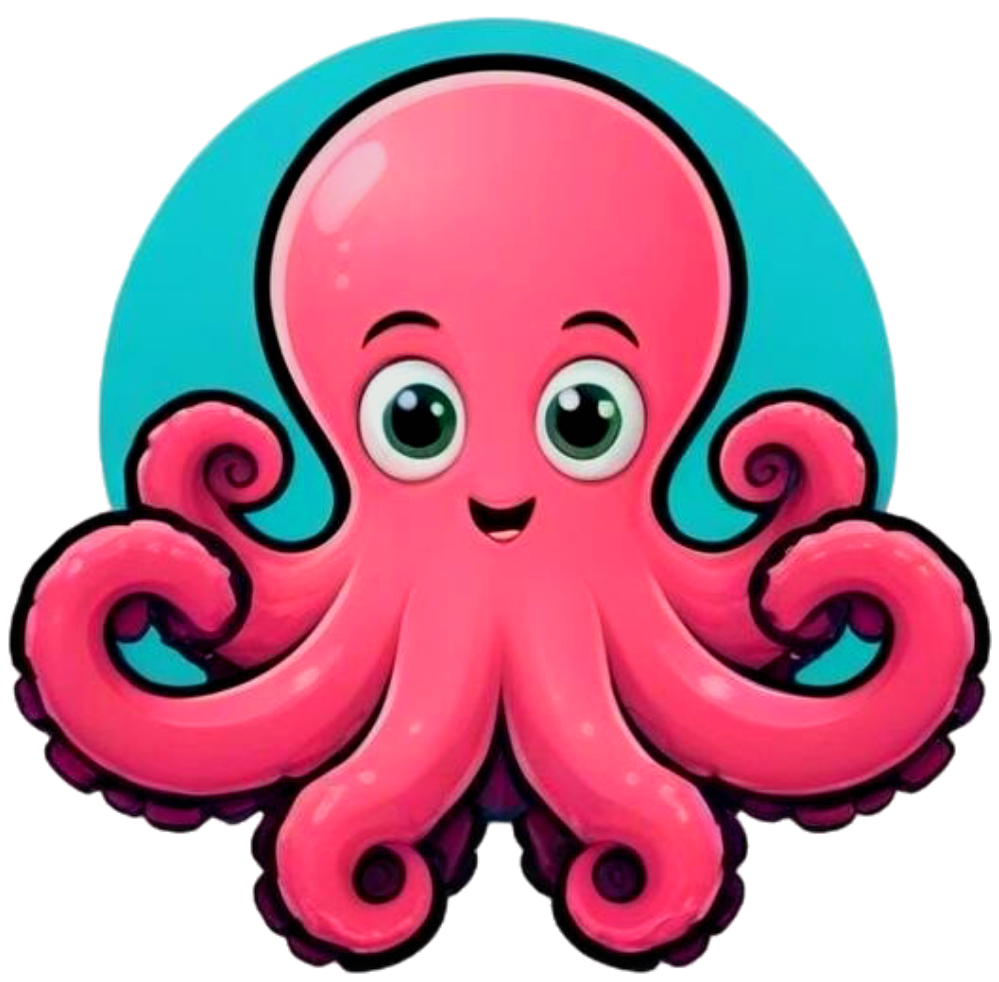
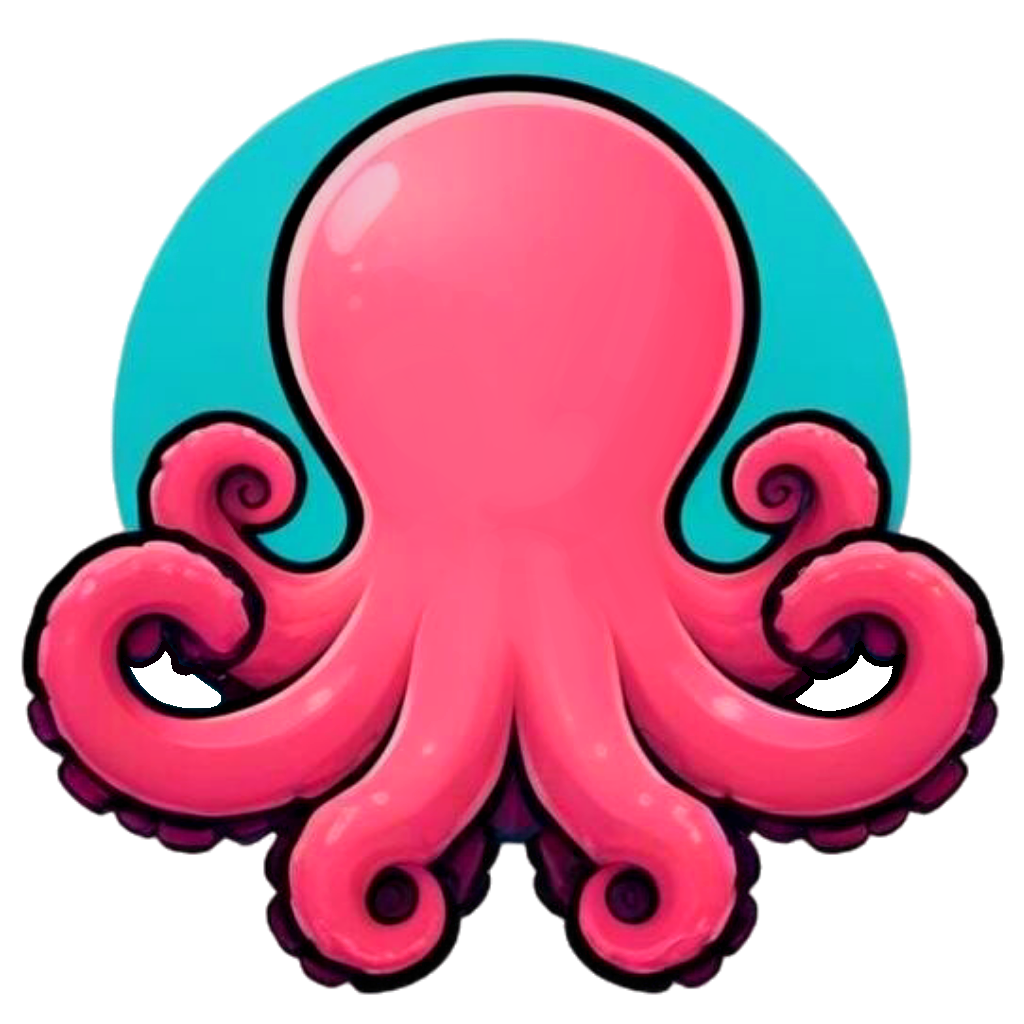
add styles and character state

Changed region(s): [[0.0, 0.0, 0.993, 1.0], [0.3413, 0.5804, 0.3724, 0.611], [0.3103, 0.611, 0.3413, 0.6415]]

diff --git a/my-mini-projects/src/components/LogIn/PasswordChecker.tsx b/my-mini-projects/src/components/LogIn/PasswordChecker.tsx
@@ -1,10 +1,11 @@
-import React, { useState } from "react";
+import React, { useEffect, useState } from "react";
 import "./PasswordChecker.css";
 
 const PasswordChecker: React.FC = () => {
   const [password, setPassword] = useState("");
   const [confirmPassword, setConfirmPassword] = useState("");
   const [showPassword, setShowPassword] = useState(false);
+  const [pupilPosition, setPupilPosition] = useState({ right: 0, top: 0 });
 
   const handlePasswordChange = (e: React.ChangeEvent<HTMLInputElement>) => {
     setPassword(e.target.value);
@@ -12,23 +13,118 @@ const PasswordChecker: React.FC = () => {
 
   const handleConfirmPasswordChange = (
     e: React.ChangeEvent<HTMLInputElement>
-  ) => {
-    setConfirmPassword(e.target.value);
-  };
+  ) => setConfirmPassword(e.target.value);
 
-  const togglePasswordVisibility = () => {
-    setShowPassword(!showPassword);
-  };
+  const togglePasswordVisibility = () => setShowPassword(!showPassword);
 
   const clearPassword = () => {
     setPassword("");
     setConfirmPassword("");
+    setPupilPosition({ right: 0, top: 0 });
+  };
+
+  const imageSource = {
+    bodyBack: "/Img/Login/octoBaseBack.png",
+    bodyFront: "/Img/Login/octoBaseFront.png",
+    eyes: "/Img/Login/defaultEyes.png",
+    eyeBrown: "/Img/Login/eyeBrown.png",
+    pupile: "/Img/Login/pupil.png",
+    mouthHappy: "/Img/Login/mouth-happy.png",
+    mouthSad: "/Img/Login/mouth-sad.png",
+    mouthSurprised: "/Img/Login/mouth-surprised.png",
+  };
+
+  const getTentacleCoverImage = () => {
+    if (confirmPassword.length > 0 && !showPassword)
+      return "tentacle-state-cover";
+    if (confirmPassword.length > 0 && showPassword)
+      return "tentacle-state-half-cover";
+    return "";
+  };
+
+  useEffect(() => {
+    const maxLength = 20;
+    const maxOffset = 5;
+    const init = { right: 3.5, top: 4 };
+
+    // Default position when no password
+    if (password.length === 0) {
+      setPupilPosition({ right: 0, top: 0 });
+      return;
+    }
+
+    // Calculate how far the pupil moves
+    const length = Math.min(password.length, maxLength);
+    const rightOffset = init.right - (length / maxLength) * maxOffset;
+
+    // Update pupil position
+    setPupilPosition({ right: rightOffset, top: init.top });
+  }, [password]);
+
+  const getStregth = (password: string) => {
+    let strength = 0;
+    if (/[A-Z]/.test(password)) strength += 1;
+    if (/[a-z]/.test(password)) strength += 1;
+    if (/[0-9]/.test(password)) strength += 1;
+    if (/[!@#$%^&*(),.?":{}|<>]/.test(password)) strength += 1;
+    if (password.length >= 8) strength += 1;
+    console.log(strength);
+
+    if (strength === 0) return "strong";
+    if (strength <= 2) return "weak";
+    else if (strength <= 4) return "medium";
+    else return "strong";
   };
 
   return (
     <div className="layout">
       <div className="character">
-        <img src="/Img/Login/octoBase.png" alt="Octopuss Logo" />
+        <img src={imageSource.bodyBack} alt="Octopus Background" />
+
+        {/* Eyes and mouth */}
+
+        {/*eye base */}
+        <div className="eyes">
+          <img src={imageSource.eyes} alt="Eyes" />
+        </div>
+
+        <div className="pupil">
+          <img
+            src={imageSource.pupile}
+            style={{
+              right: `${pupilPosition.right}px`,
+              top: `${pupilPosition.top}px`,
+            }}
+            alt="pupil"
+          />
+        </div>
+        <div className="eyes">
+          <div
+            className={`eyes-browns eyes-browns-left-${getStregth(password)}`}
+          ></div>
+          <div
+            className={`eyes-browns eyes-browns-right-${getStregth(password)}`}
+          ></div>
+          <div className="mouth">
+            {getStregth(password) === "weak" ? (
+              <img src={imageSource.mouthSad} />
+            ) : getStregth(password) === "medium" ? (
+              <img src={imageSource.mouthSurprised} />
+            ) : (
+              <img src={imageSource.mouthHappy} />
+            )}
+          </div>
+        </div>
+
+        {/* Tentacles */}
+        <div
+          className={`tentacle tentacle-left ${getTentacleCoverImage()}-left`}
+        ></div>
+        <div
+          className={`tentacle tentacle-right ${getTentacleCoverImage()}-right`}
+        ></div>
+
+        <img src={imageSource.bodyFront} alt="Octopuss Logo" />
       </div>
       <form onSubmit={(e) => e.preventDefault()}>
         <h3>Enter Your Password</h3>

diff --git a/my-mini-projects/src/components/LogIn/PasswordChecker.css b/my-mini-projects/src/components/LogIn/PasswordChecker.css
@@ -1,42 +1,157 @@
+/* Layout centering and styling */
 .layout {
-  display: grid;
+  display: flex;
+  flex-direction: column;
   align-items: center;
   justify-content: center;
-  height: 35rem; /* Fixed height */
-  width: 25rem; /* Fixed width */
-  background-color: #f0f8ff; /* Lighter blue for a softer look */
-  color: #333; /* Darker text color for better contrast */
-
-  /* Centering the .layout element on the screen */
+  height: 35rem;
+  width: 25rem;
+  background-color: #f0f8ff;
+  color: #333;
   position: absolute;
   top: 50%;
   left: 50%;
   transform: translate(-50%, -50%);
-
-  /* Border and shadow for pop */
-  border-radius: 10%; /* Rounded corners */
-  border: 3px solid #4a90e2; /* Bright border color */
-  box-shadow: 0 4px 8px rgb(248, 246, 246); /* Light shadow for depth */
+  border-radius: 10%;
+  border: 3px solid #4a90e2;
+  box-shadow: 0 4px 8px rgb(248, 246, 246);
   padding: 1.5rem;
 }
 
+/* Character container */
 .character {
-  height: 60%;
-  width: 100%;
-  background-color: seagreen;
+  position: relative;
+  height: 15rem;
+  width: 15rem;
+  background-color: rgb(26, 227, 11);
+  border-radius: 50%; /* Perfect circle */
+  overflow: visible;
   display: flex;
-  align-items: center;
   justify-content: center;
-  border-radius: 50%;
-  margin-bottom: 1.5rem;
+  align-items: center;
+}
+
+/* Tentacle styling */
+.tentacle {
+  position: absolute;
+  width: 45%;
+  height: 45%;
+  background-image: url("/Img/Login/tentacle.png");
+  background-size: contain;
+  background-repeat: no-repeat;
+  transform-origin: top center;
+  transition: 0.5s;
+  top: 80px;
+}
+
+.tentacle-left {
+  left: -10px;
+  transform: rotate(0deg);
+}
+
+.tentacle-right {
+  right: -10px;
+  transform: rotate(0deg) scaleX(-1);
+}
+
+/* Tentacle state for left and right */
+.tentacle-state-cover-left {
+  left: 70px;
+  transform: rotate(65deg);
+}
+
+.tentacle-state-cover-right {
+  right: 70px;
+  transform: rotate(-65deg) scaleX(-1);
+}
+
+.tentacle-state-half-cover-left {
+  left: 30px;
+  transform: rotate(20deg);
+}
+
+.tentacle-state-half-cover-right {
+  right: 30px;
+  transform: rotate(-20deg) scaleX(-1);
+}
+
+/* Eye and pupil containers */
+.eyes {
+  display: flex;
+  justify-content: center;
+  align-items: center;
+  position: absolute;
+  width: 100%;
+  height: 100%;
+}
+
+.eyes-browns {
+  position: absolute;
+  width: 10%;
+  height: 10%;
+  background-image: url("/Img/Login/eyeBrown.png");
+  background-size: contain;
+  background-repeat: no-repeat;
+  transform-origin: top center;
+  top: 75px;
+}
+
+.eyes-browns-right-weak {
+  top: 85px;
+  right: 85px;
+  transform: rotate(45deg) scaleX(-1) scaleY(-1);
+}
+.eyes-browns-left-weak {
+  top: 85px;
+  left: 85px;
+  transform: rotate(-45deg) scaleY(-1);
+}
+
+.eyes-browns-right-medium {
+  right: 85px;
+  transform: scaleX(-1);
+}
+.eyes-browns-left-medium {
+  left: 85px;
+}
+
+.eyes-browns-right-strong {
+  top: 70px;
+  right: 85px;
+  transform: scaleX(-1);
+}
+.eyes-browns-left-strong {
+  top: 70px;
+  left: 85px;
+}
+
+.pupil {
+  display: flex;
+  justify-content: center;
+  align-items: center;
+  position: absolute;
+  width: 100%;
+  height: 100%;
+  transition: left 1s, top 1s;
+}
+
+.mouth {
+  display: flex;
+  justify-content: center;
+  align-items: center;
+  position: absolute;
+  width: 100%;
+  height: 100%;
 }
 
 .character img {
+  position: absolute;
   width: 100%;
   height: 100%;
   object-fit: contain;
 }
 
+/* Form container */
 .form-container {
   width: 100%;
 }
@@ -61,13 +176,13 @@
 }
 
 .clear-btn {
-  background-color: #d9534f; /* Different color for clear button */
+  background-color: #d9534f;
 }
 
 .btn:hover {
-  background-color: #357abd; /* Slightly darker shade on hover */
+  background-color: #357abd;
 }
 
 .clear-btn:hover {
-  background-color: #c9302c; /* Darken clear button on hover */
+  background-color: #c9302c;
 }
